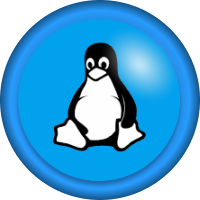
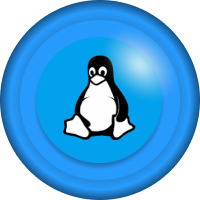
update resources fichas

diff --git a/TP3/EntregaFinal/js/Juego.js b/TP3/EntregaFinal/js/Juego.js
@@ -19,10 +19,9 @@ export class Juego {
     {
       id: "linux",
       urlFicha: selectRandom([
-        "./resources/arch-linux.png",
-        "./resources/linux.png",
-        "./resources/linux2.png",
-        "./resources/linux3.jpeg",
+          "./resources/linux1.png",
+          "./resources/linux2.png",
+          "./resources/linux3.png",
       ]),
     },
     {
@@ -30,8 +29,7 @@ export class Juego {
       urlFicha: selectRandom([
         "./resources/windows1.png",
         "./resources/windows2.png",
-        // './resources/windows1.jpeg',
-        // './resources/windows2.jpeg'
+        "./resources/windows3.png",
       ]),
     },
   ];
